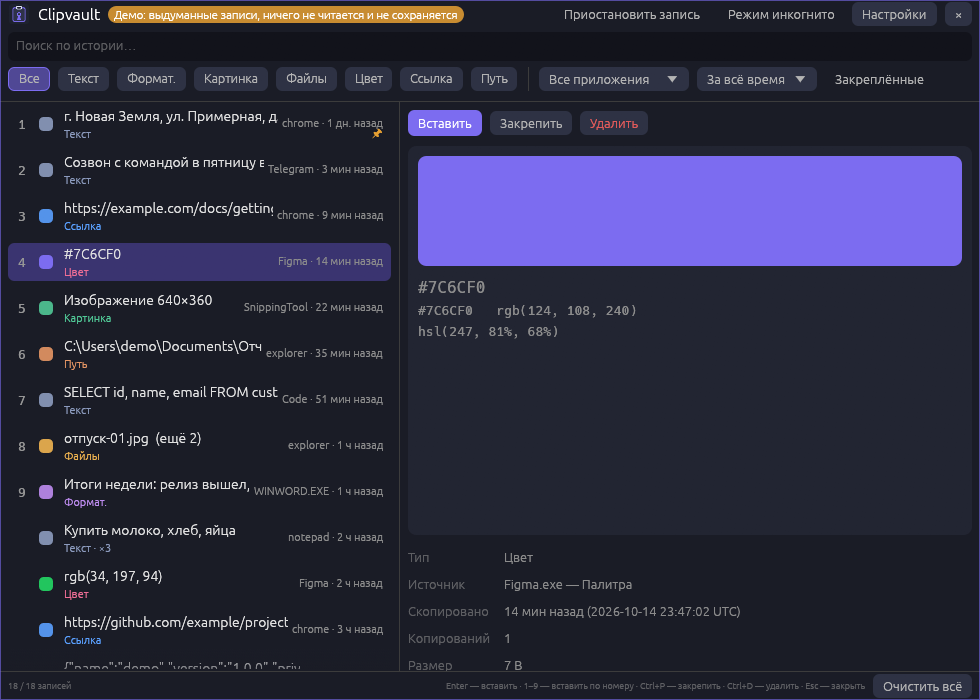
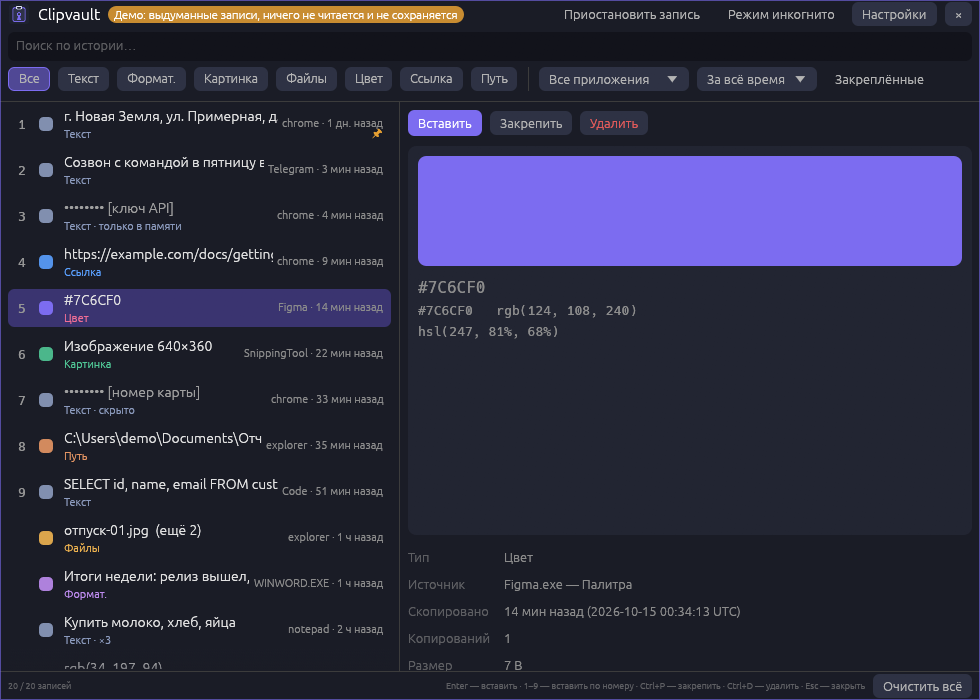
docs: README, screenshots and notes for 0.2.0

diff --git a/README.md b/README.md
@@ -18,7 +18,7 @@
 - **Вставка без сюрпризов:** Clipvault возвращает фокус окну, из которого вы вызвали список, и нажимает в нём
   `Ctrl+V`. Если окно запущено от администратора, Windows этого не позволит (UIPI) — программа так и скажет.
 
-## Возможности (версия 0.1.0)
+## Возможности (версия 0.2.0)
 
 - **Что запоминает:** текст, форматированный текст (HTML/RTF), изображения, списки файлов (`CF_HDROP`), цвета
   (`#HEX`, `rgb()`, `hsl()` — с цветным превью), ссылки и пути; для каждой записи — программа, заголовок окна
@@ -28,6 +28,14 @@
 - **Окно по `Ctrl+Alt+V`** (сочетание настраивается; `Win+V` зарезервировано Windows): мгновенный нечёткий
   поиск по мере ввода, фильтры по типу, приложению и дате, предпросмотр, вставка клавишей `Enter` или
   цифрой `1–9`, закрепление (`Ctrl+P`), удаление (`Ctrl+D`), «Очистить всё».
+- **Защита секретов (0.2.0).** До записи на диск Clipvault ищет секреты: ключи и токены (`sk-…`, `ghp_`/`github_pat_`,
+  `AKIA…`, `xox…`, JWT), закрытые ключи (`-----BEGIN … PRIVATE KEY-----`), строки подключения, сид-фразы BIP-39,
+  номера карт (Luhn), строки, похожие на пароли (чувствительность настраивается), и ваши регулярные выражения.
+  На срабатывание — одна из политик: **не сохранять**, **держать только в памяти и стереть из буфера через
+  N секунд** (по умолчанию 30) или **сохранить, но замаскировать**. Подробности — [ниже](#защита-секретов).
+- **Уважает флаги самих приложений** (`ExcludeClipboardContentFromMonitorProcessing`,
+  `CanIncludeInClipboardHistory = 0`, `CanUploadToCloudClipboard = 0`, `Clipboard Viewer Ignore`) и **чёрный
+  список процессов** (по умолчанию KeePass, KeePassXC, Bitwarden, 1Password, Dashlane): такие копии не создают записи.
 - **Лимиты:** размер записи, срок хранения, число записей (закреплённые лимитами не затрагиваются).
 - **Пауза записи и «режим инкогнито»** — из окна и из меню значка в трее.
 - **Окно администратора.** Обычная копия не может вставлять в окна «от администратора»; для них —
@@ -41,9 +49,13 @@
 | --- | --- |
 | ![Поиск](docs/screenshots/02-search.png) | ![Изображение](docs/screenshots/03-image.png) |
 
-| Цвет | Настройки |
+| Цвет | Секрет в памяти (скрыт) |
 | --- | --- |
-| ![Цвет](docs/screenshots/04-color.png) | ![Настройки](docs/screenshots/05-settings.png) |
+| ![Цвет](docs/screenshots/04-color.png) | ![Секрет](docs/screenshots/05-secret.png) |
+
+| Настройки | Защита секретов |
+| --- | --- |
+| ![Настройки](docs/screenshots/06-settings.png) | ![Секреты](docs/screenshots/07-secrets.png) |
 
 Скорость измерена на синтетических данных (50 000 записей): нечёткий поиск по всей истории — медиана
 17–37 мс, подробности и методика — в [docs/BENCHMARKS.md](docs/BENCHMARKS.md).
@@ -116,8 +128,31 @@ SQLite и SQLCipher не используются: собственный фор
 - от остатков на SSD: после удаления файл пересобирается, но старые блоки с шифртекстом могут пережить
   перезапись (без ключа они бесполезны).
 
-Автофильтр секретов (пароли, ключи, сид-фразы) в этой версии **отсутствует**: всё, что вы скопировали,
-попадает в историю. Если копируете пароль, включите «режим инкогнито» или паузу.
+Содержимое секретов, буфера и записей **никогда** не попадает в журнал, отчёты о сбое и диагностику: там только
+типы и счётчики (например, «распознан секрет: ApiKey, политика MemoryOnly»).
+
+## Защита секретов
+
+Что распознаётся (всё работает локально, до записи на диск):
+
+| Тип | Как |
+| --- | --- |
+| Ключи и токены | `sk-…` (OpenAI/Anthropic), `ghp_…`/`gho_…`/`github_pat_…`, `AKIA…`/`ASIA…` (AWS), `xox…` (Slack), `AIza…` (Google), `sk_live_…` (Stripe), JWT |
+| Закрытые ключи | заголовок `-----BEGIN … PRIVATE KEY-----` |
+| Строки подключения | `postgres://user:пароль@хост`, `mongodb+srv://…`, `Server=…;Password=…` |
+| Сид-фразы BIP-39 | 12/15/18/21/24 слов из словаря; при верной контрольной сумме — «валидная», при неверной (опечатка) всё равно считается секретом, потому что все слова из словаря |
+| Номера карт | 13–19 цифр (пробелы и дефисы допустимы), контрольная сумма Luhn и допустимое начало номера (Visa, Mastercard, Amex, МИР, UnionPay…) — телефоны и длинные идентификаторы не срабатывают |
+| Строки, похожие на пароли | одно «слово» без пробелов: энтропия, набор символов, длина; не срабатывает на ссылки, пути, e-mail, UUID, хеши, версии, цвета, идентификаторы в `camelCase`; чувствительность: выкл / низкая / средняя (по умолчанию) / высокая |
+| Ваши шаблоны | любые регулярные выражения (по одному в строке в «Настройках») |
+
+**Политика** (одна на все типы): «не сохранять»; «держать только в памяти» — запись видна в списке скрытой
+(`•••••••• [ключ API]`, кнопка «Показать»), никогда не пишется на диск и пропадает при выходе, а из буфера Windows
+секрет стирается через заданное время, **если там всё ещё он**; «сохранить, но замаскировать» — на диск идёт
+только `•••••••• [тип]`, оригинал не сохраняется.
+
+**Что это не гарантирует.** Фильтр — эвристика: пароль, не похожий на пароль, пройдёт; обычная строка, похожая на
+пароль, может быть принята за секрет (уменьшите чувствительность). Стирание буфера не отменяет того, что другая
+программа успела прочитать его раньше. Флаги приложений и чёрный список проверяются **до** чтения содержимого буфера.
 
 ## Диагностика
 
@@ -145,7 +180,7 @@ powershell -ExecutionPolicy Bypass -File scripts\release.ps1 # проверки,
 Структура:
 
 - `crates/core` — вся логика без интерфейса: зашифрованное хранилище, история, дедупликация, поиск,
-  классификация, форматы буфера, настройки, таблица локализации; тесты;
+  классификация, детекторы секретов, форматы буфера, настройки, таблица локализации; тесты;
 - `crates/app` — GUI на egui, окно-слушатель Windows (буфер, сочетание, трей), вставка, установщик,
   автообновление, диагностика, демо-режим;
 - `crates/cli` — `clipvault-cli list | search | get | purge`.
@@ -158,6 +193,11 @@ powershell -ExecutionPolicy Bypass -File scripts\release.ps1 # проверки,
 ```powershell
 Clipvault.exe --screenshots docs\screenshots
 ```
+
+## Сторонние данные
+
+Список слов BIP-39 (`crates/core/src/bip39_en.txt`) взят из [bitcoin/bips](https://github.com/bitcoin/bips/blob/master/bip-0039/english.txt)
[1 lines of base64/hex data omitted]
 
 ## Лицензия
 

diff --git a/docs/release-notes/v0.2.0.md b/docs/release-notes/v0.2.0.md
@@ -1,0 +1,34 @@
+## Clipvault 0.2.0 — защита секретов, флаги менеджеров паролей, чёрный список
+
+Версия учит Clipvault не записывать то, что записывать нельзя: пароли, ключи, сид-фразы, карты.
+
+- **Фильтр секретов до записи на диск.** Распознаются: ключи и токены (`sk-…`, `ghp_`/`gho_`/`github_pat_…`, `AKIA…`/`ASIA…`, `xox…`, `AIza…`, `sk_live_…`, JWT), закрытые ключи (`-----BEGIN … PRIVATE KEY-----`), строки подключения (`postgres://user:пароль@хост`, `mongodb+srv://…`, `Server=…;Password=…`), сид-фразы BIP-39 (слова из словаря, число слов 12/15/18/21/24, проверка контрольной суммы), номера карт (13–19 цифр, Luhn и допустимое начало номера), строки, похожие на пароли (энтропия, набор символов, длина; чувствительность «выкл / низкая / средняя / высокая») и ваши регулярные выражения (по одному в строке в «Настройках»; не скомпилировавшиеся строки подсвечиваются).
+- **Политика на срабатывание** (в «Настройках»): «не сохранять»; «держать только в памяти и стереть из буфера через N секунд» (по умолчанию 30; буфер стирается, только если в нём всё ещё этот секрет); «сохранить, но замаскировать» (на диск идёт `•••••••• [тип]`, оригинал не сохраняется). Запись «только в памяти» видна в списке скрытой, кнопка «Показать» раскрывает её, при выходе из программы она исчезает.
+- **Флаги самих приложений.** Копии, у которых выставлены `ExcludeClipboardContentFromMonitorProcessing`, `Clipboard Viewer Ignore`, `CanIncludeInClipboardHistory = 0` или `CanUploadToCloudClipboard = 0`, не создают записи (отключается в «Настройках»).
+- **Чёрный список процессов** по владельцу буфера (`GetClipboardOwner` → exe): по умолчанию KeePass, KeePassXC, Bitwarden, 1Password, Dashlane; список редактируется. Флаги и чёрный список проверяются **до** чтения содержимого буфера.
+- **В журнале, отчётах о сбое и диагностике — только типы и счётчики** («распознан секрет: ApiKey, политика MemoryOnly»), никогда содержимое.
+
+## Файлы релиза
+
+| Файл | Что это |
+| --- | --- |
+| `Clipvault-Setup.exe` | установщик: ставит в `%LOCALAPPDATA%\Programs\Clipvault`, права администратора не нужны |
+| `Clipvault.exe` | переносная версия (тот же файл); её же скачивает автообновление |
+| `clipvault-cli.exe` | консольная версия: `list`, `search`, `get`, `purge` |
+| `SHA256SUMS.txt` | контрольные суммы |
+
+## Что важно знать
+
+- **Обновление с 0.1.0:** кнопка «Обновить» в окне или `Clipvault.exe --update`; история и ключ остаются на месте.
+- **SmartScreen.** Исполняемые файлы **не подписаны**: Windows может показать «неизвестный издатель». Сверяйте `SHA256SUMS.txt`.
+- **Приватность.** Никакой синхронизации, облака и телеметрии; единственный сетевой запрос — проверка новой версии (отключается).
+- Список слов BIP-39 (BSD-2-Clause) лежит в репозитории: `crates/core/src/bip39_en.txt`.
+
+## Ограничения
+
+- Проверено на реальной системе (Windows 11, `scripts/e2e.ps1`): политика «в памяти» (секрета нет ни в списке, ни в файлах данных, он стирается из буфера через заданное время, обычный текст не стирается), «не сохранять», «маскировать», свой шаблон, четыре формата-флага (и то, что флаг «можно» записи не мешает), чёрный список процессов. Таблицы положительных и ложных срабатываний (ключи, PEM, сид-фразы, Luhn, телефоны, ссылки, UUID, хеши, версии, идентификаторы) — модульные тесты.
+- **Не проверено на реальной системе:** работа с настоящими менеджерами паролей (KeePass, Bitwarden, 1Password, Dashlane): мы проверяли сами форматы-флаги и имена процессов, но не эти программы; облачный буфер и история `Win+V` Windows; поведение при вставке из окна администратора через `--admin` с настоящим UAC.
+- Фильтр — эвристика. Пароль, не похожий на пароль («лето2026»), пройдёт; случайная строка со смесью символов может быть принята за пароль (понизьте чувствительность). Сид-фраза с опечаткой (все слова из словаря, число слов верное, контрольная сумма не сходится) считается секретом.
+- Стирание буфера не отменяет того, что другая программа успела прочитать его раньше. Секрет, оставленный «в памяти», хранится в памяти Clipvault до выхода из программы.
+- Секреты внутри списков файлов и изображений не ищутся (только текст).
+- Подробнее — в [README](https://github.com/ahsoggg-creator/clipvault#readme).

diff --git a/README.en.md b/README.en.md
@@ -20,7 +20,7 @@ stays on your computer: no cloud, no sync, no telemetry.
 - **Pasting that behaves:** Clipvault gives the focus back to the window you opened the list from and presses
   `Ctrl+V` there. If that window runs as administrator Windows does not allow it (UIPI) — and the program says so.
 
-## Features (version 0.1.0)
+## Features (version 0.2.0)
 
 - **What it remembers:** text, rich text (HTML/RTF), images, file lists (`CF_HDROP`), colors (`#HEX`, `rgb()`,
   `hsl()` — with a color preview), links and paths; for each entry the program, the window title and the time.
@@ -29,6 +29,14 @@ stays on your computer: no cloud, no sync, no telemetry.
 - **A popup on `Ctrl+Alt+V`** (configurable; `Win+V` is reserved by Windows): instant fuzzy search as you type,
   filters by type, application and date, a preview, pasting with `Enter` or a digit `1–9`, pinning (`Ctrl+P`),
   deleting (`Ctrl+D`), "Clear all".
+- **Secret protection (0.2.0).** Before anything is written to disk Clipvault looks for secrets: keys and tokens
+  (`sk-…`, `ghp_`/`github_pat_`, `AKIA…`, `xox…`, JWT), private keys (`-----BEGIN … PRIVATE KEY-----`), connection
+  strings, BIP-39 seed phrases, card numbers (Luhn), password-looking strings (adjustable sensitivity) and your own
+  regular expressions. A recognised secret gets one of three policies: **do not store**, **keep in memory only and wipe
+  from the clipboard after N seconds** (30 by default) or **store, but masked**. Details [below](#secret-protection).
+- **Obeys the apps' own flags** (`ExcludeClipboardContentFromMonitorProcessing`, `CanIncludeInClipboardHistory = 0`,
+  `CanUploadToCloudClipboard = 0`, `Clipboard Viewer Ignore`) and a **process blacklist** (KeePass, KeePassXC,
+  Bitwarden, 1Password, Dashlane by default): such copies never become entries.
 - **Limits:** entry size, retention period, number of entries (pinned entries are exempt).
 - **Pause and "incognito mode"** — from the window and from the tray icon menu.
 - **Administrator window.** The normal copy cannot paste into windows running as administrator; for those there
@@ -42,9 +50,13 @@ stays on your computer: no cloud, no sync, no telemetry.
 | --- | --- |
 | ![Search](docs/screenshots/02-search.png) | ![Image](docs/screenshots/03-image.png) |
 
-| Color | Settings |
+| Color | A memory-only secret (hidden) |
 | --- | --- |
-| ![Color](docs/screenshots/04-color.png) | ![Settings](docs/screenshots/05-settings.png) |
+| ![Color](docs/screenshots/04-color.png) | ![Secret](docs/screenshots/05-secret.png) |
+
+| Settings | Secret protection |
+| --- | --- |
+| ![Settings](docs/screenshots/06-settings.png) | ![Secrets](docs/screenshots/07-secrets.png) |
 
 Speed was measured on synthetic data (50,000 entries): fuzzy search over the whole history takes a median of
 17–37 ms; details and the method are in [docs/BENCHMARKS.md](docs/BENCHMARKS.md) (Russian).
@@ -115,8 +127,32 @@ writes a new encrypted file and swaps it in.
 - remnants on an SSD: the file is rebuilt after a deletion, but old blocks with ciphertext may survive being
   overwritten (they are useless without the key).
 
-A secrets filter (passwords, keys, seed phrases) is **not** in this version: whatever you copy goes into the
-history. If you copy a password, turn on incognito mode or pause.
+The content of secrets, the clipboard and entries **never** reaches the log, crash reports or diagnostics: only
+types and counters (for example "secret recognised: ApiKey, policy MemoryOnly").
+
+## Secret protection
+
+What is recognised (everything is local, before anything is written to disk):
+
+| Type | How |
+| --- | --- |
+| Keys and tokens | `sk-…` (OpenAI/Anthropic), `ghp_…`/`gho_…`/`github_pat_…`, `AKIA…`/`ASIA…` (AWS), `xox…` (Slack), `AIza…` (Google), `sk_live_…` (Stripe), JWT |
+| Private keys | the `-----BEGIN … PRIVATE KEY-----` header |
+| Connection strings | `postgres://user:password@host`, `mongodb+srv://…`, `Server=…;Password=…` |
+| BIP-39 seed phrases | 12/15/18/21/24 words from the list; with a valid checksum it is a "valid" phrase, with a bad one (a typo) it still counts as a secret because every word is from the list |
+| Card numbers | 13–19 digits (spaces and dashes allowed), Luhn checksum and a plausible leading range (Visa, Mastercard, Amex, Mir, UnionPay…) — phone numbers and long IDs do not trigger it |
+| Password-looking strings | one "word" without spaces: entropy, character classes, length; it does not trigger on links, paths, e-mail, UUIDs, hashes, versions, colors, `camelCase` identifiers; sensitivity: off / low / medium (default) / high |
+| Your patterns | any regular expressions (one per line in Settings) |
+
+**Policy** (one for all types): "do not store"; "keep in memory only" — the entry shows hidden in the list
+(`•••••••• [API key]`, a "Show" button), is never written to disk and disappears on exit, and the secret is wiped from
+the Windows clipboard after the set time **if the clipboard still holds it**; "store, but masked" — only
+`•••••••• [type]` goes to disk, the original is not stored.
+
+**What this does not guarantee.** The filter is a heuristic: a password that does not look like one gets through; an
+ordinary string that looks like one may be taken for a secret (lower the sensitivity). Wiping the clipboard does not
+undo another program having read it earlier. The apps' flags and the blacklist are checked **before** the clipboard
+content is read.
 
 ## Diagnostics
 
@@ -143,7 +179,7 @@ powershell -ExecutionPolicy Bypass -File scripts\release.ps1 # checks, build, (s
 Layout:
 
 - `crates/core` — all the logic without a UI: the encrypted store, the history, de-duplication, search,
-  classification, clipboard formats, settings, the localisation table; tests;
+  classification, secret detectors, clipboard formats, settings, the localisation table; tests;
 - `crates/app` — the egui GUI, the Windows listener window (clipboard, hotkey, tray), pasting, the installer,
   auto-update, diagnostics, the demo mode;
 - `crates/cli` — `clipvault-cli list | search | get | purge`.
@@ -156,6 +192,11 @@ Recreate the screenshots (made-up data, nothing real is read or written):
 ```powershell
 Clipvault.exe --screenshots docs\screenshots
 ```
+
+## Third-party data
+
+The BIP-39 word list (`crates/core/src/bip39_en.txt`) comes from [bitcoin/bips](https://github.com/bitcoin/bips/blob/master/bip-0039/english.txt)
[1 lines of base64/hex data omitted]
 
 ## License
 
